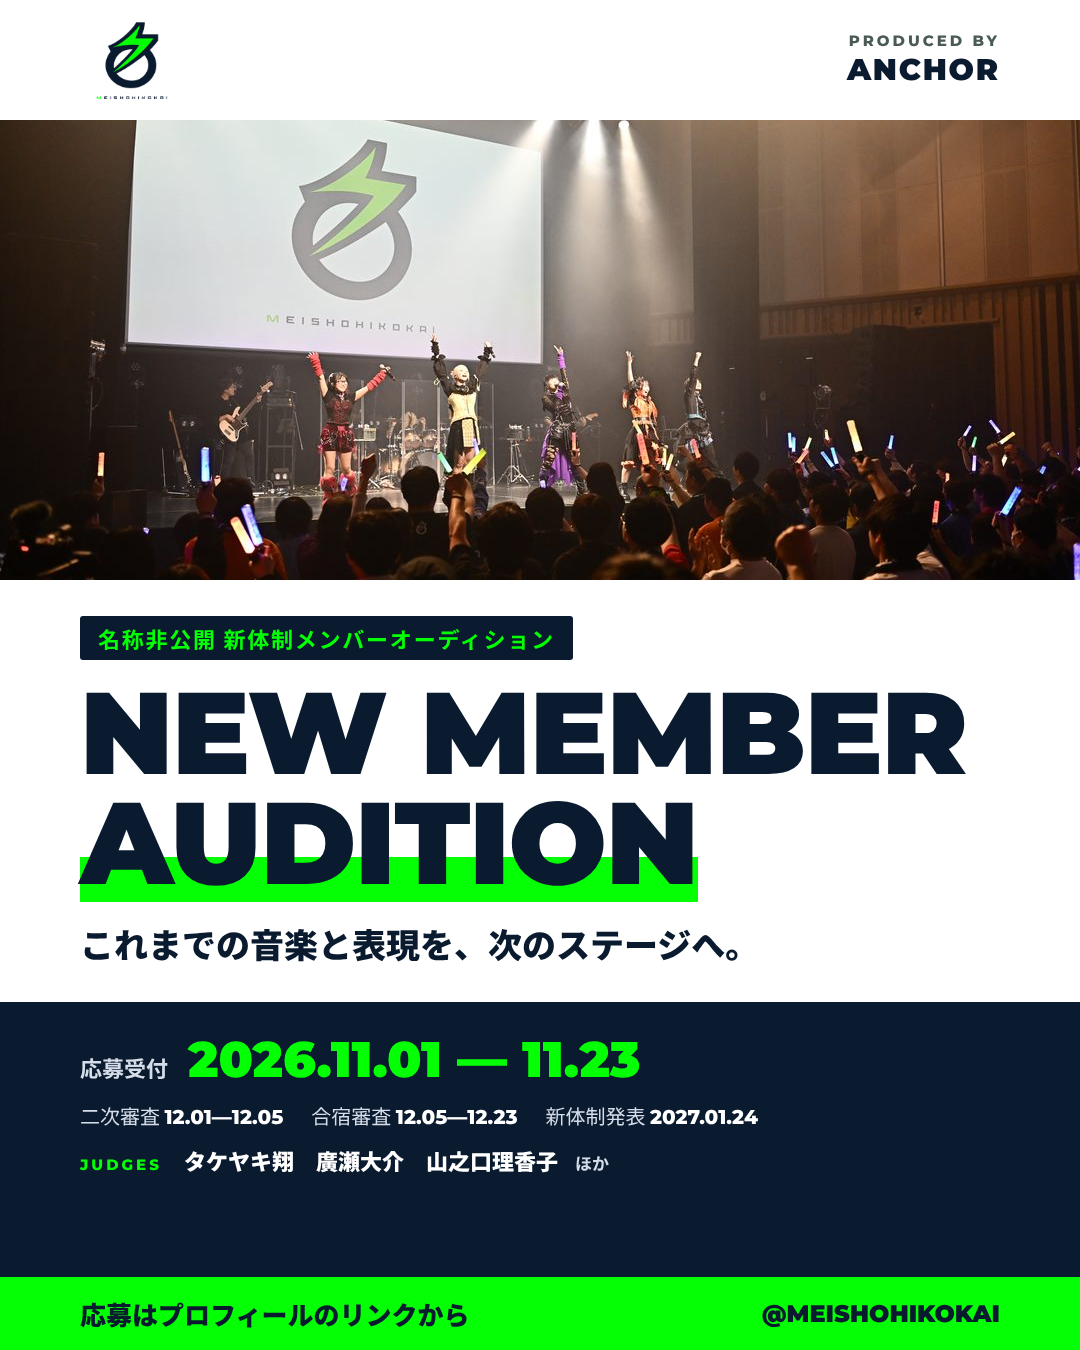
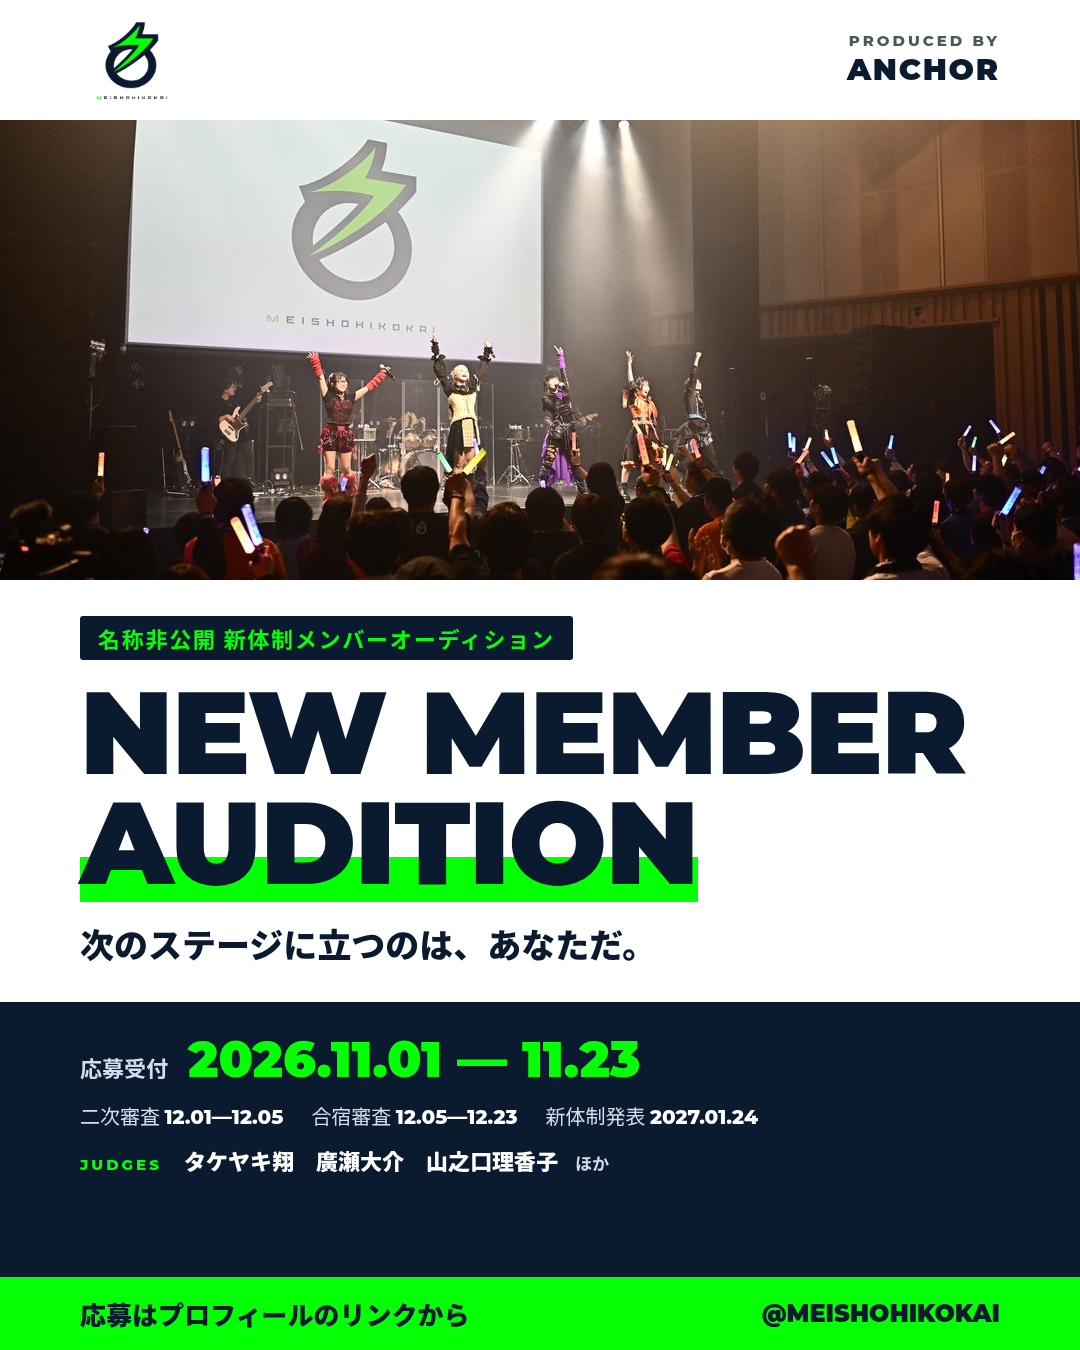
Sync LP copy with latest audition deck (v4–v5)

Changed region(s): [[0.0611, 0.6844, 0.4278, 0.7156], [0.4583, 0.6844, 0.6722, 0.7156]]

diff --git a/index.html b/index.html
@@ -12,6 +12,7 @@ a{color:#0A1A2F}a:hover{color:#1F3A5F}
 .line-qr{display:block;width:200px;height:200px;object-fit:contain;background:#FFFFFF;padding:10px;border-radius:4px;box-sizing:border-box}
 @media (max-width: 640px){.navlink{display:none}}
 @media (max-width: 768px){.line-qr{display:none}}
+@media (max-width: 520px){.you-card{grid-column:1/-1}.you-tile{aspect-ratio:2/1!important}}
 </style>
 </head>
 <body>
@@ -39,8 +40,8 @@ a{color:#0A1A2F}a:hover{color:#1F3A5F}
 <div style="flex: 999 1 540px; min-width: 0; display: flex; flex-direction: column; gap: 26px; justify-content: center">
 <div style="align-self: flex-start; background: #0A1A2F; color: var(--accent); font-size: 13px; font-weight: 700; letter-spacing: 0.12em; padding: 6px 14px; border-radius: 2px">名称非公開 新体制メンバーオーディション</div>
 <h1 style="margin: 0; font-family: 'Montserrat', sans-serif; font-weight: 900; font-size: clamp(44px, 11vw, 120px); line-height: 0.95; letter-spacing: -0.01em">NEW<br>MEMBER<br><span style="background: linear-gradient(transparent 62%, var(--accent) 62%, var(--accent) 92%, transparent 92%)">AUDITION</span></h1>
-<p style="margin: 0; font-size: clamp(22px, 2.6vw, 30px); font-weight: 900; line-height: 1.5">これまでの音楽と表現を、<br>次のステージへ。</p>
-<p style="margin: 0; max-width: 580px; font-size: 16px; color: #4A5A55">SNS総フォロワー120万人超の音楽グループ「名称非公開」が、ANCHORの全面プロデュースによる新体制メンバーオーディションを開催。2027年1月24日の新体制発表に向けて、新しい仲間を募集します。</p>
+<p style="margin: 0; font-size: clamp(22px, 2.6vw, 30px); font-weight: 900; line-height: 1.5"><span style="display: inline-block">次のステージに立つのは、</span><span style="display: inline-block">あなただ。</span></p>
+<p style="margin: 0; max-width: 580px; font-size: 16px; color: #4A5A55">音楽グループ「名称非公開」が、ANCHORの全面プロデュースによる新体制メンバーオーディションを開催。2027年1月24日の新体制発表に向けて、新しい仲間を募集します。</p>
 <div style="display: flex; flex-wrap: wrap; gap: 16px; align-items: center">
 <a href="https://lin.ee/9cqyKYC" target="_blank" rel="noopener" style="display: inline-flex; align-items: center; justify-content: center; min-height: 56px; padding: 0 40px; background: #0A1A2F; color: var(--accent); font-family: 'Montserrat', sans-serif; font-weight: 800; font-size: 16px; letter-spacing: 0.14em; text-decoration: none; border-radius: 2px">ENTRY　応募する</a>
 <span style="font-size: 14px; font-weight: 500; color: #4A5A55">応募受付：2026.11.1 — 11.23</span>
@@ -70,15 +71,16 @@ a{color:#0A1A2F}a:hover{color:#1F3A5F}
 </div>
 <div style="display: flex; flex-wrap: wrap; gap: 48px">
 <div style="flex: 1 1 440px; display: flex; flex-direction: column; gap: 20px; font-size: 16px; color: #33433E">
-<p style="margin: 0">SNSでは満たされない寂しさ。学校や社会への不満や不安。人生の劣等感。</p>
-<p style="margin: 0; font-size: clamp(19px, 2.4vw, 28px); font-weight: 900; line-height: 1.6; color: #0A1A2F">誰にも言えない枯れた心を謳う、<br>本音の代行人が集う場所を。</p>
-<p style="margin: 0">世論を切り裂く挑発的な歌詞と、銃弾のようなミクスチャーロックサウンド。これまでの音楽と表現を次のステージへ連れていく、新しい仲間を募集します。</p>
+<p style="margin: 0; font-size: clamp(22px, 2.6vw, 32px); font-weight: 900; line-height: 1.5; color: #0A1A2F"><span style="display: inline-block">泣けるライブから、</span><span style="display: inline-block">心を動かす“本物”へ。</span></p>
+<p style="margin: 0">2025年5月結成。TVアニメ2作品のED、スタジアム、海外フェスへ。<br>届く場所は広がった。でも、目指す場所はもっと先にある──日本武道館。<br>そのために、グループごと生まれ変わる。<br>この第二章を、一緒に鳴らしてくれる人を探しています。</p>
 </div>
 <div style="flex: 1 1 360px; display: flex; flex-direction: column; gap: 8px">
 <div style="font-family: 'Montserrat', sans-serif; font-size: 12px; font-weight: 800; letter-spacing: 0.2em; color: #4A5A55">KEYWORDS</div>
-<div style="display: flex; align-items: center; gap: 16px; background: #F2F5F2; border-radius: 4px; padding: 18px 20px"><span style="font-family: 'Montserrat', sans-serif; font-weight: 800; font-size: 13px; background: #0A1A2F; color: var(--accent); padding: 4px 8px; border-radius: 2px">01</span><span style="flex: 1; font-family: 'Montserrat', sans-serif; font-weight: 800; font-size: clamp(16px, 4vw, 22px); letter-spacing: 0.04em">MUSIC</span><span style="font-size: 14px; font-weight: 700">音楽性</span></div>
-<div style="display: flex; align-items: center; gap: 16px; background: #F2F5F2; border-radius: 4px; padding: 18px 20px"><span style="font-family: 'Montserrat', sans-serif; font-weight: 800; font-size: 13px; background: #0A1A2F; color: var(--accent); padding: 4px 8px; border-radius: 2px">02</span><span style="flex: 1; font-family: 'Montserrat', sans-serif; font-weight: 800; font-size: clamp(16px, 4vw, 22px); letter-spacing: 0.04em">INDIVIDUALITY</span><span style="font-size: 14px; font-weight: 700">個性</span></div>
-<div style="display: flex; align-items: center; gap: 16px; background: #F2F5F2; border-radius: 4px; padding: 18px 20px"><span style="font-family: 'Montserrat', sans-serif; font-weight: 800; font-size: 13px; background: #0A1A2F; color: var(--accent); padding: 4px 8px; border-radius: 2px">03</span><span style="flex: 1; font-family: 'Montserrat', sans-serif; font-weight: 800; font-size: clamp(16px, 4vw, 22px); letter-spacing: 0.04em">PERFORMANCE</span><span style="font-size: 14px; font-weight: 700">表現力</span></div>
+<p style="margin: 0 0 8px; font-size: clamp(18px, 2vw, 22px); font-weight: 900; line-height: 1.6"><span style="display: inline-block">求めているのは、</span><span style="display: inline-block">“上手い人”より</span><span style="display: inline-block">“心を動かせる人”。</span></p>
+<div style="display: flex; align-items: flex-start; gap: 16px; background: #F2F5F2; border-radius: 4px; padding: 18px 20px"><span style="font-family: 'Montserrat', sans-serif; font-weight: 800; font-size: 13px; background: #0A1A2F; color: var(--accent); padding: 4px 8px; border-radius: 2px; line-height: 1.4">01</span><div style="flex: 1; min-width: 0; display: flex; flex-direction: column; gap: 4px"><span style="font-family: 'Montserrat', sans-serif; font-weight: 800; font-size: clamp(16px, 4vw, 22px); line-height: 1.2; letter-spacing: 0.04em">MUSIC</span><span style="font-size: 14px; font-weight: 700; line-height: 1.6"><span style="display: inline-block">名称非公開の音を、</span><span style="display: inline-block">自分の声で鳴らしたい人</span></span></div></div>
+<div style="display: flex; align-items: flex-start; gap: 16px; background: #F2F5F2; border-radius: 4px; padding: 18px 20px"><span style="font-family: 'Montserrat', sans-serif; font-weight: 800; font-size: 13px; background: #0A1A2F; color: var(--accent); padding: 4px 8px; border-radius: 2px; line-height: 1.4">02</span><div style="flex: 1; min-width: 0; display: flex; flex-direction: column; gap: 4px"><span style="font-family: 'Montserrat', sans-serif; font-weight: 800; font-size: clamp(16px, 4vw, 22px); line-height: 1.2; letter-spacing: 0.04em">INDIVIDUALITY</span><span style="font-size: 14px; font-weight: 700; line-height: 1.6"><span style="display: inline-block">誰とも似ていない“自分”を</span><span style="display: inline-block">武器にできる人</span></span></div></div>
+<div style="display: flex; align-items: flex-start; gap: 16px; background: #F2F5F2; border-radius: 4px; padding: 18px 20px"><span style="font-family: 'Montserrat', sans-serif; font-weight: 800; font-size: 13px; background: #0A1A2F; color: var(--accent); padding: 4px 8px; border-radius: 2px; line-height: 1.4">03</span><div style="flex: 1; min-width: 0; display: flex; flex-direction: column; gap: 4px"><span style="font-family: 'Montserrat', sans-serif; font-weight: 800; font-size: clamp(16px, 4vw, 22px); line-height: 1.2; letter-spacing: 0.04em">PERFORMANCE</span><span style="font-size: 14px; font-weight: 700; line-height: 1.6"><span style="display: inline-block">ステージで人の人生を</span><span style="display: inline-block">揺さぶりたい人</span></span></div></div>
+<p style="margin: 8px 0 0; font-size: 16px; font-weight: 900"><span style="background: linear-gradient(transparent 60%, var(--accent) 60%)">そして、本気で武道館を目指せる人。</span></p>
 </div>
 </div>
 </div>
@@ -155,7 +157,7 @@ a{color:#0A1A2F}a:hover{color:#1F3A5F}
 <div style="display: flex; flex-direction: column; gap: 14px">
 <h2 style="margin: 0; font-family: 'Montserrat', sans-serif; font-weight: 900; font-size: clamp(30px, 7.4vw, 56px); line-height: 1; letter-spacing: 0.02em">MEMBER</h2>
 <div style="width: 72px; height: 8px; background: var(--accent)"></div>
-<p style="margin: 0; font-size: 18px; font-weight: 700">新体制を担うメンバー</p>
+<p style="margin: 0; font-size: 18px; font-weight: 700"><span style="display: inline-block">この2人と、</span><span style="display: inline-block">新しい名称非公開をつくる人へ。</span></p>
 </div>
 <p style="margin: 0; max-width: 580px; font-size: 15px; color: #33433E">世論を切り裂く挑発的な歌詞と、銃弾のようなミクスチャーロックサウンドが特徴の音楽グループ。元BiSをはじめ、異なるフィールドの才能が集結。ANCHORによる全曲プロデュース。2027年1月24日、ヒューガー・トギーと新メンバーで新体制へ。</p>
 </div>
@@ -170,13 +172,13 @@ a{color:#0A1A2F}a:hover{color:#1F3A5F}
 <img src="images/member_toggy.jpg" alt="トギー" style="width: 100%; aspect-ratio: 3 / 4; object-fit: cover; display: block; border-radius: 4px; background: #F2F5F2">
 <div style="align-self: flex-start; font-size: 11px; font-weight: 700; background: #E5EBE8; padding: 2px 8px; border-radius: 2px">第3期BiS唯一のオリジナルメンバー</div>
 <div style="font-size: 18px; font-weight: 900; line-height: 1.5">トギー</div>
-<div style="font-size: 13px; color: #4A5A55; line-height: 1.7">2019年のBiS始動から約5年半にわたり中核を担い続けた。解散後11カ月の沈黙を経て加入。不屈の精神を携えたメンバー。</div>
+<div style="font-size: 13px; color: #4A5A55; line-height: 1.7">2019年のBiS始動から約5年半にわたり中核を担い続けた。解散後11カ月の沈黙を経て2025年12月に電撃加入。</div>
 </div>
-<a href="https://lin.ee/9cqyKYC" target="_blank" rel="noopener" style="display: flex; flex-direction: column; gap: 10px; text-decoration: none; color: #0A1A2F">
-<div style="aspect-ratio: 3 / 4; background: #0A1A2F; border-radius: 4px; display: flex; flex-direction: column; align-items: center; justify-content: center; gap: 6px; color: var(--accent)"><span style="font-family: 'Montserrat', sans-serif; font-weight: 900; font-size: clamp(36px, 9vw, 56px); line-height: 1">YOU?</span><span style="font-size: 13px; font-weight: 700; color: #FFFFFF">応募はこちら →</span></div>
-<div style="align-self: flex-start; font-size: 11px; font-weight: 700; background: var(--accent); padding: 2px 8px; border-radius: 2px">NEW MEMBER</div>
-<div style="font-size: 18px; font-weight: 900; line-height: 1.5">次のメンバーは、あなた。</div>
-<div style="font-size: 13px; color: #4A5A55; line-height: 1.7">2027年1月24日、新体制の名称非公開として。</div>
+<a class="you-card" href="https://lin.ee/9cqyKYC" target="_blank" rel="noopener" style="display: flex; flex-direction: column; gap: 10px; text-decoration: none; color: #0A1A2F">
+<div class="you-tile" style="aspect-ratio: 3 / 4; background: #0A1A2F; border-radius: 4px; display: flex; flex-direction: column; align-items: center; justify-content: center; gap: 6px; color: var(--accent)"><span style="font-family: 'Montserrat', sans-serif; font-weight: 900; font-size: clamp(36px, 9vw, 56px); line-height: 1">YOU</span><span style="font-size: 13px; font-weight: 700; color: #FFFFFF">応募はこちら →</span></div>
+<div style="align-self: flex-start; font-size: 11px; font-weight: 700; background: var(--accent); padding: 2px 8px; border-radius: 2px">NEXT MEMBER</div>
+<div style="font-size: 18px; font-weight: 900; line-height: 1.5"><span style="display: inline-block">ここに立つのは、</span><span style="display: inline-block">あなたかもしれない。</span></div>
+<div style="font-size: 13px; color: #4A5A55; line-height: 1.7"><span style="display: inline-block">あなたの名前と、あなたの色が、</span><span style="display: inline-block">このカードに入る。</span></div>
 </a>
 </div>
 </div>
@@ -242,7 +244,6 @@ a{color:#0A1A2F}a:hover{color:#1F3A5F}
 <div style="max-width: 520px; display: flex; flex-direction: column; gap: 6px; font-size: 15px; color: #D5DDE8">
 <div><span style="color: var(--accent); font-weight: 700">日程</span>　2026年12月5日〜12月23日の間で実施</div>
 <div><span style="color: var(--accent); font-weight: 700">会場</span>　OKUTAMA+（学校施設を活用した貸切会場。宿泊設備・ダンススタジオあり）</div>
-<div><span style="color: var(--accent); font-weight: 700">内容</span>　歌唱・ダンス・グループ課題、候補者インタビュー・合宿撮影</div>
 </div>
 </div>
 <div style="display: grid; grid-template-columns: repeat(auto-fit, minmax(240px, 1fr)); gap: 12px">
@@ -250,31 +251,28 @@ a{color:#0A1A2F}a:hover{color:#1F3A5F}
 <div style="font-family: 'Montserrat', sans-serif; font-weight: 900; font-size: 34px; line-height: 1; color: var(--accent)">DAY 01</div>
 <ul style="margin: 0; padding-left: 1.2em; font-size: 15px; display: flex; flex-direction: column; gap: 6px">
 <li>顔合わせ・オリエンテーション</li>
-<li>個人歌唱・ダンス審査</li>
-<li>グループ課題・レッスン</li>
-<li>候補者インタビュー</li>
+<li>体力テスト・タレント力テスト</li>
 </ul>
 </div>
 <div style="background: rgba(10, 26, 47, 0.82); border: 1px solid #2A3D57; border-radius: 4px; padding: 28px; display: flex; flex-direction: column; gap: 16px">
 <div style="font-family: 'Montserrat', sans-serif; font-weight: 900; font-size: 34px; line-height: 1; color: var(--accent)">DAY 02</div>
 <ul style="margin: 0; padding-left: 1.2em; font-size: 15px; display: flex; flex-direction: column; gap: 6px">
-<li>体力テスト</li>
-<li>タレント力テスト</li>
+<li>グループ課題・レッスン</li>
 <li>中間発表</li>
-<li>意気込み発表</li>
 </ul>
 </div>
 <div style="background: rgba(10, 26, 47, 0.82); border: 2px solid var(--accent); border-radius: 4px; padding: 27px; display: flex; flex-direction: column; gap: 16px">
 <div style="font-family: 'Montserrat', sans-serif; font-weight: 900; font-size: 34px; line-height: 1; color: var(--accent)">DAY 03</div>
 <ul style="margin: 0; padding-left: 1.2em; font-size: 15px; display: flex; flex-direction: column; gap: 6px">
 <li>最終課題・パフォーマンス</li>
-<li>最終面談・審査協議</li>
 <li>結果通知</li>
-<li>終了インタビュー</li>
 </ul>
 </div>
 </div>
-<p style="margin: 0; font-size: 13px; color: #B8C4D6">※内容は変更となる場合があります。詳細な時刻・審査内容は確定次第お知らせします。</p>
+<div style="display: flex; flex-direction: column; gap: 6px">
+<p style="margin: 0; font-size: 15px; color: #D5DDE8"><span style="color: var(--accent); font-weight: 700">全日程を通して</span>　<span style="display: inline-block">歌唱・ダンス・グループ課題、</span><span style="display: inline-block">候補者インタビュー、</span><span style="display: inline-block">合宿の撮影があります。</span></p>
+<p style="margin: 0; font-size: 13px; color: #B8C4D6">※進行は仮案です。内容は変更となる場合があります。</p>
+</div>
 </div>
 </section>
 
@@ -336,7 +334,7 @@ a{color:#0A1A2F}a:hover{color:#1F3A5F}
 <img src="images/bg_join_us.jpg" alt="" aria-hidden="true" style="position: absolute; inset: 0; width: 100%; height: 100%; object-fit: cover; opacity: 0.25; display: block">
 <div style="position: relative; max-width: 1200px; margin: 0 auto; padding: clamp(80px, 12vw, 128px) 20px; display: flex; flex-direction: column; align-items: center; gap: 26px; text-align: center">
 <div style="font-family: 'Montserrat', sans-serif; font-weight: 900; font-size: clamp(56px, 10vw, 120px); line-height: 1; letter-spacing: 0.04em; color: var(--accent)">JOIN US</div>
-<h2 style="margin: 0; font-weight: 900; font-size: clamp(22px, 3.4vw, 38px); line-height: 1.5">あなたの応募を<br>お待ちしています。</h2>
+<h2 style="margin: 0; font-weight: 900; font-size: clamp(22px, 3.4vw, 38px); line-height: 1.5"><span style="display: inline-block">2027年1月24日、</span><br><span style="display: inline-block">ステージで輝いているのは、</span><span style="display: inline-block">あなたかもしれない。</span></h2>
 <div style="display: flex; flex-wrap: wrap; justify-content: center; gap: 8px 32px; font-size: 15px">
 <div><span style="color: #B8C4D6">応募受付</span>　<span style="font-family: 'Montserrat', sans-serif; font-weight: 800">2026.11.01 — 11.23</span></div>
 <div><span style="color: #B8C4D6">新体制発表</span>　<span style="font-family: 'Montserrat', sans-serif; font-weight: 800">2027.01.24</span></div>

diff --git a/sns_feed_1080x1350.html b/sns_feed_1080x1350.html
@@ -28,7 +28,7 @@ body{margin:0;background:#FFFFFF}
 <div style="flex: 0 0 auto; box-sizing: border-box; padding: 36px 80px 34px; display: flex; flex-direction: column; gap: 18px">
 <div style="align-self: flex-start; background: #0A1A2F; color: var(--accent); font-size: 22px; font-weight: 700; letter-spacing: 0.08em; padding: 6px 18px; border-radius: 3px">名称非公開 新体制メンバーオーディション</div>
 <h1 style="margin: 0; font-family: 'Montserrat', sans-serif; font-weight: 900; font-size: 116px; line-height: 0.95; letter-spacing: -0.01em">NEW MEMBER<br><span style="background: linear-gradient(transparent 60%, var(--accent) 60%, var(--accent) 92%, transparent 92%)">AUDITION</span></h1>
-<p style="margin: 4px 0 0; font-size: 34px; font-weight: 900; line-height: 1.4">これまでの音楽と表現を、次のステージへ。</p>
+<p style="margin: 4px 0 0; font-size: 34px; font-weight: 900; line-height: 1.4">次のステージに立つのは、あなただ。</p>
 </div>
 
 <div style="flex: 1 1 auto; background: #0A1A2F; color: #FFFFFF; box-sizing: border-box; padding: 30px 80px 0; display: flex; flex-direction: column; gap: 14px">

diff --git a/flyer_a4.html b/flyer_a4.html
@@ -28,7 +28,7 @@ body{margin:0;background:#FFFFFF}
 <div style="flex: 0 0 auto; box-sizing: border-box; padding: 30px 48px 30px; display: flex; flex-direction: column; gap: 14px">
 <div style="align-self: flex-start; background: #0A1A2F; color: var(--accent); font-size: 15px; font-weight: 700; letter-spacing: 0.1em; padding: 5px 14px; border-radius: 2px">名称非公開 新体制メンバーオーディション</div>
 <h1 style="margin: 0; font-family: 'Montserrat', sans-serif; font-weight: 900; font-size: 86px; line-height: 0.95; letter-spacing: -0.01em">NEW MEMBER<br><span style="background: linear-gradient(transparent 60%, var(--accent) 60%, var(--accent) 92%, transparent 92%)">AUDITION</span></h1>
-<p style="margin: 4px 0 0; font-size: 24px; font-weight: 900; line-height: 1.5">これまでの音楽と表現を、次のステージへ。</p>
+<p style="margin: 4px 0 0; font-size: 24px; font-weight: 900; line-height: 1.5">次のステージに立つのは、あなただ。</p>
 </div>
 
 <div style="flex: 1 1 auto; background: #0A1A2F; color: #FFFFFF; box-sizing: border-box; padding: 30px 48px 32px; display: flex; gap: 32px">

diff --git a/sns_story_1080x1920.html b/sns_story_1080x1920.html
@@ -23,7 +23,7 @@ body{margin:0;background:#FFFFFF}
 <img src="images/logo.png" alt="名称非公開" style="height: 92px; width: auto; display: block">
 </div>
 <h1 style="margin: 0; font-family: 'Montserrat', sans-serif; font-weight: 900; font-size: 128px; line-height: 0.95; letter-spacing: -0.01em">NEW<br>MEMBER<br><span style="background: linear-gradient(transparent 60%, var(--accent) 60%, var(--accent) 92%, transparent 92%)">AUDITION</span></h1>
-<p style="margin: 6px 0 0; font-size: 38px; font-weight: 900; line-height: 1.45">これまでの音楽と表現を、<br>次のステージへ。</p>
+<p style="margin: 6px 0 0; font-size: 38px; font-weight: 900; line-height: 1.45">次のステージに立つのは、<br>あなただ。</p>
 <div style="font-family: 'Montserrat', sans-serif; font-size: 22px; font-weight: 800; letter-spacing: 0.14em; color: #4A5A55">PRODUCED BY <span style="color: #0A1A2F; font-weight: 900">ANCHOR</span></div>
 </div>
 
